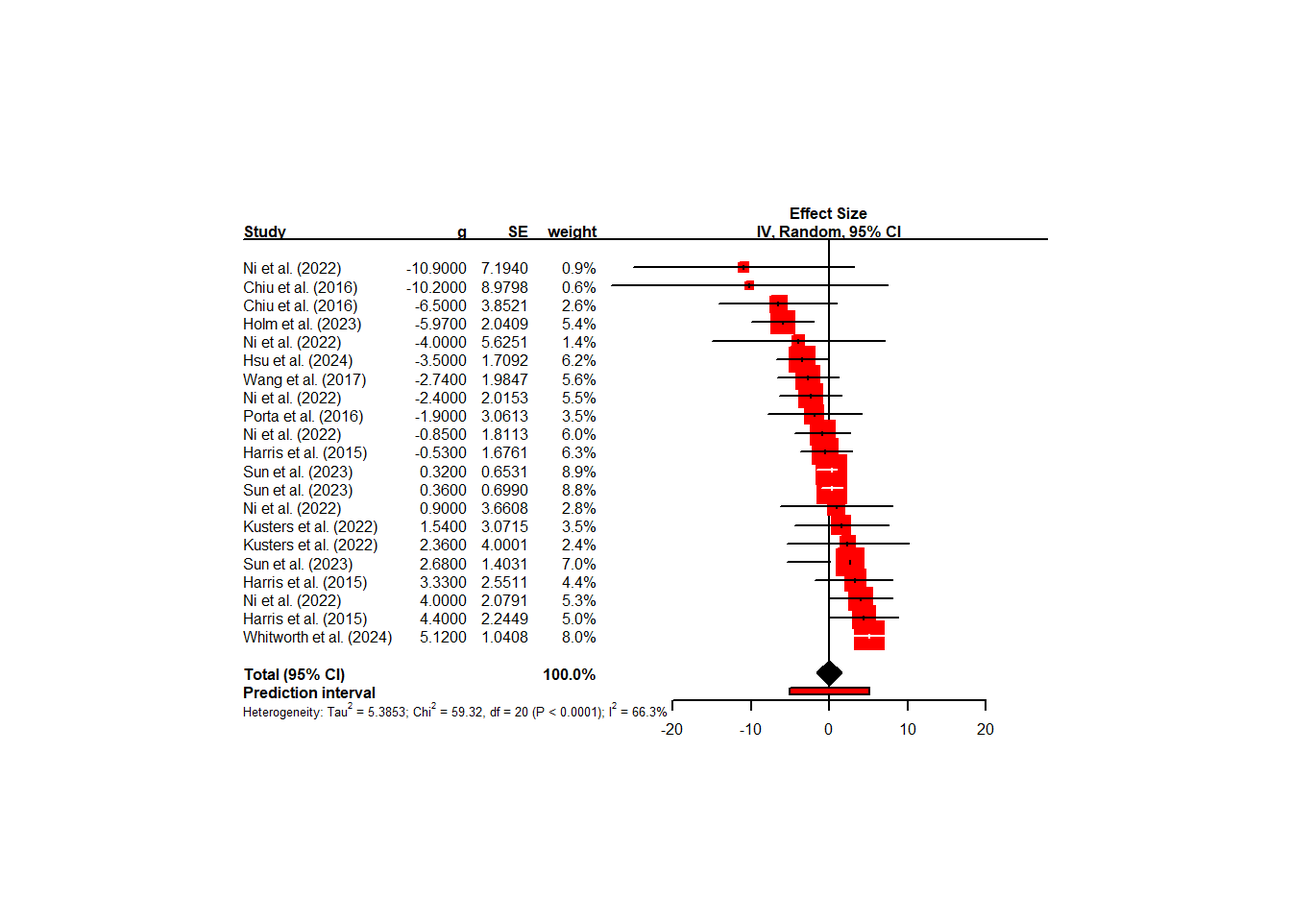
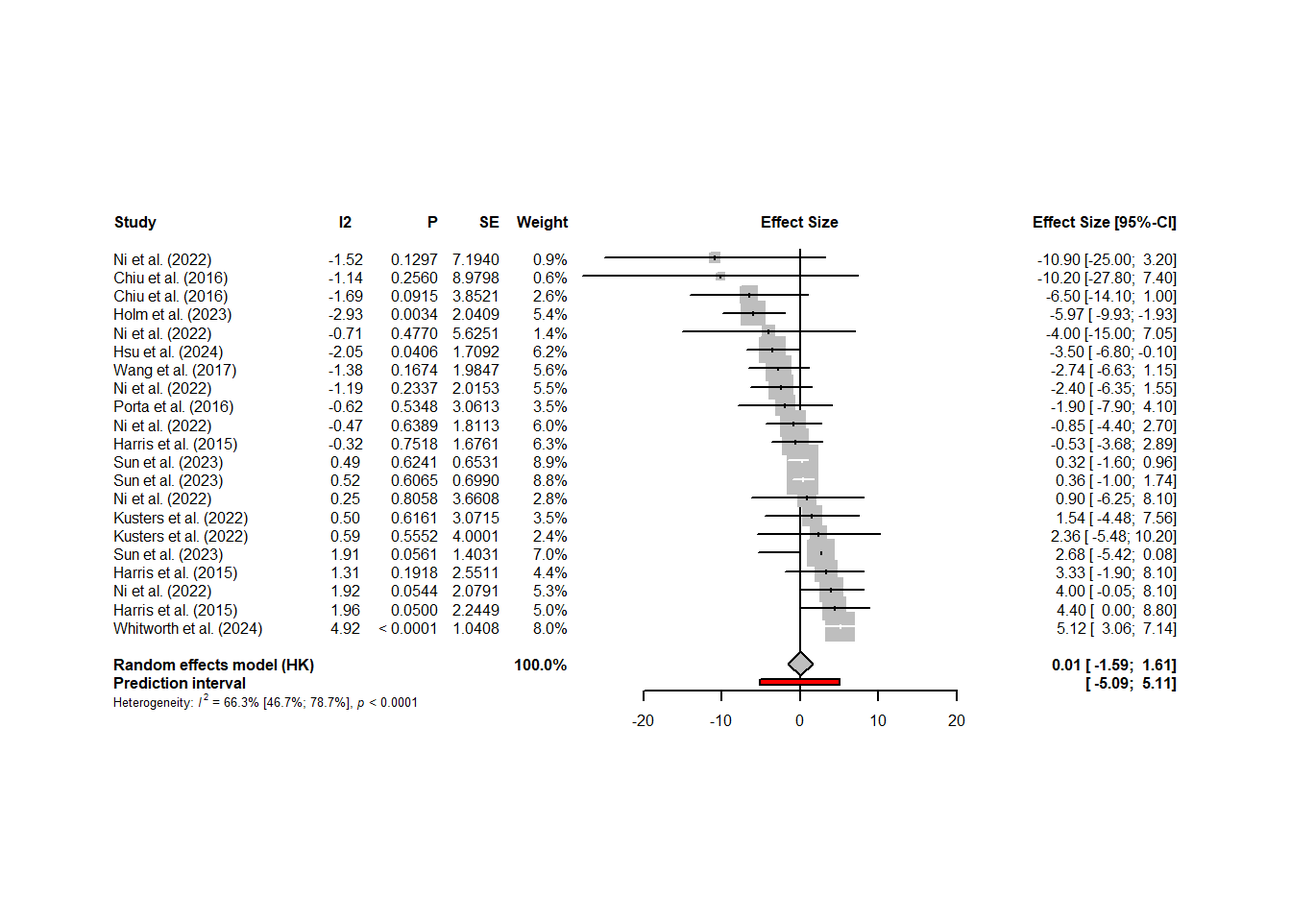
Refining of forest plots and addition of NO2

diff --git a/meta-analysis documentation.html b/meta-analysis documentation.html
@@ -266,7 +266,9 @@ pre > code.sourceCode > span > a:first-child::before { text-decoration: underlin
   </ul></li>
   <li><a href="#overall-meta-analysis" id="toc-overall-meta-analysis" class="nav-link" data-scroll-target="#overall-meta-analysis">Overall Meta-analysis</a>
   <ul class="collapse">
-  <li><a href="#forrest-plots---style-options" id="toc-forrest-plots---style-options" class="nav-link" data-scroll-target="#forrest-plots---style-options">Forrest Plots - Style options</a></li>
+  <li><a href="#summarise-meta-output-for-pm" id="toc-summarise-meta-output-for-pm" class="nav-link" data-scroll-target="#summarise-meta-output-for-pm">Summarise meta output for PM</a></li>
+  <li><a href="#summarise-meta-output-for-no2" id="toc-summarise-meta-output-for-no2" class="nav-link" data-scroll-target="#summarise-meta-output-for-no2">Summarise meta output for No2</a></li>
+  <li><a href="#forest-plots" id="toc-forest-plots" class="nav-link" data-scroll-target="#forest-plots">Forest Plots</a></li>
   </ul></li>
   <li><a href="#to-do" id="toc-to-do" class="nav-link" data-scroll-target="#to-do">To do</a></li>
   <li><a href="#useful-links" id="toc-useful-links" class="nav-link" data-scroll-target="#useful-links">Useful links</a></li>
@@ -326,7 +328,7 @@ pre > code.sourceCode > span > a:first-child::before { text-decoration: underlin
 <section id="fixed-effects-model" class="level2">
 <h2 class="anchored" data-anchor-id="fixed-effects-model">Fixed-effects model</h2>
 <p>Assumes that all effect sizes stem from a single, homogeneous population, i.e.&nbsp;all studies share the same true effect size. Thus any deviation from the overall effect size by any given study is because of sampling error. Hence why the effect is fixed. Can also be referred to as “equal effects” or “common effect”.</p>
-<p>Studeis with a small standard error, numerical representation of sampling error, should be better estimators of the true overall effect than studies with large standard errors. Pooled effects in mata-analyses give effect sizes with smaller standard errors (e.g.&nbsp;higer precision) a greater weight, inverse-variance weighting.</p>
+<p>Studies with a small standard error, numerical representation of sampling error, should be better estimators of the true overall effect than studies with large standard errors. Pooled effects in meta-analyses give effect sizes with smaller standard errors (e.g.&nbsp;higher precision) a greater weight, inverse-variance weighting.</p>
 </section>
 <section id="random-effects-model" class="level2">
 <h2 class="anchored" data-anchor-id="random-effects-model">Random-effects model</h2>
@@ -366,7 +368,7 @@ pre > code.sourceCode > span > a:first-child::before { text-decoration: underlin
 <ul>
 <li>“se”, use variance correction if HK standard error is smaller than standard error from classic random effects meta-analysis (Knapp and Hartung, 2003).</li>
 </ul></li>
-<li>method.tau.ci =
+<li>method.tau.ci = calculates a confidence interval for τ2 and τ
 <ul>
 <li>“J”, Jackson method recommended for DerSimonian-Laird estimator of τ2</li>
 </ul></li>
@@ -376,7 +378,6 @@ pre > code.sourceCode > span > a:first-child::before { text-decoration: underlin
 </ul></li>
 <li>data = data table to undertake analysis with</li>
 </ul>
-<p>method.tau = “DL”, method.random.ci = “HK”, method.predict = “HK”, method.tau.ci = “J”, #Jackson method recommended for DerSimonian-Laird #estimator of τ2 method.I2 = “Q”, method.bias = “Egger”,</p>
 </section>
 <section id="packages-and-libraries" class="level1 unlisted hidden">
 <h1 class="unlisted hidden">Packages and Libraries</h1>
@@ -1372,91 +1373,139 @@ Supply arguments directly to `.fns` through an anonymous function instead.
 <span id="cb6-14"><a href="#cb6-14" aria-hidden="true" tabindex="-1"></a>               <span class="at">method.tau.ci =</span> <span class="st">"J"</span>, <span class="co">#Jackson method recommended for DerSimonian-Laird </span></span>
 <span id="cb6-15"><a href="#cb6-15" aria-hidden="true" tabindex="-1"></a>                                    <span class="co">#estimator of τ2</span></span>
 <span id="cb6-16"><a href="#cb6-16" aria-hidden="true" tabindex="-1"></a>               <span class="at">method.I2 =</span> <span class="st">"Q"</span>,</span>
-<span id="cb6-17"><a href="#cb6-17" aria-hidden="true" tabindex="-1"></a>               <span class="at">method.bias =</span> <span class="st">"Egger"</span>,</span>
-<span id="cb6-18"><a href="#cb6-18" aria-hidden="true" tabindex="-1"></a>               <span class="at">data =</span> standardised_ppm_data))</span></code><button title="Copy to Clipboard" class="code-copy-button"><i class="bi"></i></button></pre></div>
+<span id="cb6-17"><a href="#cb6-17" aria-hidden="true" tabindex="-1"></a>               <span class="at">data =</span> standardised_ppm_data))</span></code><button title="Copy to Clipboard" class="code-copy-button"><i class="bi"></i></button></pre></div>
 </div>
 </section>
-<section id="forrest-plots---style-options" class="level2 tabset">
-<h2 class="tabset anchored" data-anchor-id="forrest-plots---style-options">Forrest Plots - Style options</h2>
+<section id="summarise-meta-output-for-pm" class="level2">
+<h2 class="anchored" data-anchor-id="summarise-meta-output-for-pm">Summarise meta output for PM</h2>
+<div class="cell">
+<div class="sourceCode cell-code" id="cb7"><pre class="sourceCode r code-with-copy"><code class="sourceCode r"><span id="cb7-1"><a href="#cb7-1" aria-hidden="true" tabindex="-1"></a><span class="fu">summary</span>(m.pm_overall)</span></code><button title="Copy to Clipboard" class="code-copy-button"><i class="bi"></i></button></pre></div>
+<div class="cell-output cell-output-stdout">
+<pre><code>                        Effect Size              95%-CI %W(random)
+Chiu et al. (2016)          -6.5000 [-14.1000;  1.0000]        2.6
+Chiu et al. (2016)         -10.2000 [-27.8000;  7.4000]        0.6
+Harris et al. (2015)        -0.5300 [ -3.6800;  2.8900]        6.3
+Harris et al. (2015)         3.3300 [ -1.9000;  8.1000]        4.4
+Harris et al. (2015)         4.4000 [  0.0000;  8.8000]        5.0
+Holm et al. (2023)          -5.9700 [ -9.9300; -1.9300]        5.4
+Hsu et al. (2024)           -3.5000 [ -6.8000; -0.1000]        6.2
+Kusters et al. (2022)        1.5400 [ -4.4800;  7.5600]        3.5
+Kusters et al. (2022)        2.3600 [ -5.4800; 10.2000]        2.4
+Ni et al. (2022)             4.0000 [ -0.0500;  8.1000]        5.3
+Ni et al. (2022)            -2.4000 [ -6.3500;  1.5500]        5.5
+Ni et al. (2022)            -0.8500 [ -4.4000;  2.7000]        6.0
+Ni et al. (2022)             0.9000 [ -6.2500;  8.1000]        2.8
+Ni et al. (2022)            -4.0000 [-15.0000;  7.0500]        1.4
+Ni et al. (2022)           -10.9000 [-25.0000;  3.2000]        0.9
+Porta et al. (2016)         -1.9000 [ -7.9000;  4.1000]        3.5
+Sun et al. (2023)            2.6800 [ -5.4200;  0.0800]        7.0
+Sun et al. (2023)            0.3600 [ -1.0000;  1.7400]        8.8
+Sun et al. (2023)            0.3200 [ -1.6000;  0.9600]        8.9
+Wang et al. (2017)          -2.7400 [ -6.6300;  1.1500]        5.6
+Whitworth et al. (2024)      5.1200 [  3.0600;  7.1400]        8.0
+
+Number of studies: k = 21
+
+                          Effect Size            95%-CI    t p-value
+Random effects model (HK)      0.0124 [-1.5886; 1.6133] 0.02  0.9873
+Prediction interval                   [-5.0862; 5.1110]             
+
+Quantifying heterogeneity (with 95%-CIs):
+ tau^2 = 5.3853 [1.0515; 21.4916]; tau = 2.3206 [1.0254; 4.6359]
+ I^2 = 66.3% [46.7%; 78.7%]; H = 1.72 [1.37; 2.17]
+
+Test of heterogeneity:
+     Q d.f.  p-value
+ 59.32   20 &lt; 0.0001
+
+Details of meta-analysis methods:
+- Inverse variance method
+- DerSimonian-Laird estimator for tau^2
+- Jackson method for confidence interval of tau^2 and tau
+- Calculation of I^2 based on Q
+- Hartung-Knapp adjustment for random effects model (df = 20)
+- Hartung-Knapp prediction interval (df = 20)</code></pre>
+</div>
+</div>
+</section>
+<section id="run-meta-analysis-for-no2" class="level2 unlisted hidden">
+<h2 class="unlisted hidden anchored" data-anchor-id="run-meta-analysis-for-no2">Run meta-analysis for NO2</h2>
+<div class="cell">
+<div class="sourceCode cell-code" id="cb9"><pre class="sourceCode r code-with-copy"><code class="sourceCode r"><span id="cb9-1"><a href="#cb9-1" aria-hidden="true" tabindex="-1"></a>standardised_no2_data <span class="ot">&lt;-</span> standardised_review_data <span class="sc">|&gt;</span></span>
+<span id="cb9-2"><a href="#cb9-2" aria-hidden="true" tabindex="-1"></a>  <span class="fu">filter</span>(exposure <span class="sc">==</span> <span class="st">"NO2"</span> <span class="sc">&amp;</span> exposure_level <span class="sc">!=</span> <span class="st">"NA"</span> <span class="sc">&amp;</span> standardisation_factor <span class="sc">!=</span> <span class="st">"NA"</span>)</span>
+<span id="cb9-3"><a href="#cb9-3" aria-hidden="true" tabindex="-1"></a></span>
+<span id="cb9-4"><a href="#cb9-4" aria-hidden="true" tabindex="-1"></a>m.no2_overall<span class="ot">=</span>(<span class="fu">metagen</span>(<span class="at">TE =</span> standardised_effect_size, <span class="at">lower=</span>standardised_ci_lower,</span>
+<span id="cb9-5"><a href="#cb9-5" aria-hidden="true" tabindex="-1"></a>               <span class="at">upper=</span>standardised_ci_upper,</span>
+<span id="cb9-6"><a href="#cb9-6" aria-hidden="true" tabindex="-1"></a>               <span class="at">studlab =</span> study,</span>
+<span id="cb9-7"><a href="#cb9-7" aria-hidden="true" tabindex="-1"></a>               <span class="co">#prediction = exposure_level,</span></span>
+<span id="cb9-8"><a href="#cb9-8" aria-hidden="true" tabindex="-1"></a>               <span class="at">sm =</span> <span class="st">"Effect Size"</span>,</span>
+<span id="cb9-9"><a href="#cb9-9" aria-hidden="true" tabindex="-1"></a>               <span class="at">common =</span> <span class="cn">FALSE</span>,</span>
+<span id="cb9-10"><a href="#cb9-10" aria-hidden="true" tabindex="-1"></a>               <span class="at">random =</span> <span class="cn">TRUE</span>,</span>
+<span id="cb9-11"><a href="#cb9-11" aria-hidden="true" tabindex="-1"></a>               <span class="at">method.tau =</span> <span class="st">"DL"</span>,</span>
+<span id="cb9-12"><a href="#cb9-12" aria-hidden="true" tabindex="-1"></a>               <span class="at">method.random.ci =</span> <span class="st">"HK"</span>,</span>
+<span id="cb9-13"><a href="#cb9-13" aria-hidden="true" tabindex="-1"></a>               <span class="at">method.predict =</span> <span class="st">"HK"</span>,</span>
+<span id="cb9-14"><a href="#cb9-14" aria-hidden="true" tabindex="-1"></a>               <span class="at">method.tau.ci =</span> <span class="st">"J"</span>, <span class="co">#Jackson method recommended for DerSimonian-Laird </span></span>
+<span id="cb9-15"><a href="#cb9-15" aria-hidden="true" tabindex="-1"></a>                                    <span class="co">#estimator of τ2</span></span>
+<span id="cb9-16"><a href="#cb9-16" aria-hidden="true" tabindex="-1"></a>               <span class="at">method.I2 =</span> <span class="st">"Q"</span>,</span>
+<span id="cb9-17"><a href="#cb9-17" aria-hidden="true" tabindex="-1"></a>               <span class="at">data =</span> standardised_no2_data))</span></code><button title="Copy to Clipboard" class="code-copy-button"><i class="bi"></i></button></pre></div>
+</div>
+</section>
+<section id="summarise-meta-output-for-no2" class="level2">
+<h2 class="anchored" data-anchor-id="summarise-meta-output-for-no2">Summarise meta output for No2</h2>
+<div class="cell">
+<div class="sourceCode cell-code" id="cb10"><pre class="sourceCode r code-with-copy"><code class="sourceCode r"><span id="cb10-1"><a href="#cb10-1" aria-hidden="true" tabindex="-1"></a><span class="fu">summary</span>(m.no2_overall)</span></code><button title="Copy to Clipboard" class="code-copy-button"><i class="bi"></i></button></pre></div>
+<div class="cell-output cell-output-stdout">
+<pre><code>                      Effect Size            95%-CI %W(random)
+Kusters et al. (2022)      0.5300 [-0.2800; 1.3400]       25.2
+Kusters et al. (2022)      0.1300 [-0.5900; 0.8500]       26.9
+Ni et al. (2022)           1.8500 [-0.1500; 3.8500]        9.9
+Ni et al. (2022)           0.8000 [-1.2500; 2.8500]        9.6
+Ni et al. (2022)          -1.3500 [-3.3500; 0.6500]        9.9
+Porta et al. (2016)       -1.1000 [-2.3000; 0.1000]       18.5
+
+Number of studies: k = 6
+
+                          Effect Size            95%-CI    t p-value
+Random effects model (HK)      0.0910 [-0.9828; 1.1648] 0.22  0.8362
+Prediction interval                   [-1.8486; 2.0306]             
+
+Quantifying heterogeneity (with 95%-CIs):
+ tau^2 = 0.3948 [0.0000; 6.2997]; tau = 0.6283 [0.0000; 2.5099]
+ I^2 = 51.6% [0.0%; 80.7%]; H = 1.44 [1.00; 2.28]
+
+Test of heterogeneity:
+     Q d.f. p-value
+ 10.33    5  0.0665
+
+Details of meta-analysis methods:
+- Inverse variance method
+- DerSimonian-Laird estimator for tau^2
+- Jackson method for confidence interval of tau^2 and tau
+- Calculation of I^2 based on Q
+- Hartung-Knapp adjustment for random effects model (df = 5)
+- Hartung-Knapp prediction interval (df = 5)</code></pre>
+</div>
+</div>
+</section>
+<section id="forest-plots" class="level2 tabset">
+<h2 class="tabset anchored" data-anchor-id="forest-plots">Forest Plots</h2>
 <div class="tabset-margin-container"></div><div class="panel-tabset">
-<ul class="nav nav-tabs" role="tablist"><li class="nav-item" role="presentation"><a class="nav-link active" id="tabset-1-1-tab" data-bs-toggle="tab" data-bs-target="#tabset-1-1" role="tab" aria-controls="tabset-1-1" aria-selected="true" href="">Standard (PM - Overall, random &amp; mixed)</a></li><li class="nav-item" role="presentation"><a class="nav-link" id="tabset-1-2-tab" data-bs-toggle="tab" data-bs-target="#tabset-1-2" role="tab" aria-controls="tabset-1-2" aria-selected="false" href="">JAMA (PM - Overall, random &amp; mixed)</a></li><li class="nav-item" role="presentation"><a class="nav-link" id="tabset-1-3-tab" data-bs-toggle="tab" data-bs-target="#tabset-1-3" role="tab" aria-controls="tabset-1-3" aria-selected="false" href="">BMJ (PM - Overall, random &amp; mixed)</a></li><li class="nav-item" role="presentation"><a class="nav-link" id="tabset-1-4-tab" data-bs-toggle="tab" data-bs-target="#tabset-1-4" role="tab" aria-controls="tabset-1-4" aria-selected="false" href="">Cochrane’s Review Manager 5 (PM - Overall, random &amp; mixed)</a></li><li class="nav-item" role="presentation"><a class="nav-link" id="tabset-1-5-tab" data-bs-toggle="tab" data-bs-target="#tabset-1-5" role="tab" aria-controls="tabset-1-5" aria-selected="false" href="">NO2 - Overall</a></li></ul>
+<ul class="nav nav-tabs" role="tablist"><li class="nav-item" role="presentation"><a class="nav-link active" id="tabset-1-1-tab" data-bs-toggle="tab" data-bs-target="#tabset-1-1" role="tab" aria-controls="tabset-1-1" aria-selected="true" href="">PM - Overall, random-effects</a></li><li class="nav-item" role="presentation"><a class="nav-link" id="tabset-1-2-tab" data-bs-toggle="tab" data-bs-target="#tabset-1-2" role="tab" aria-controls="tabset-1-2" aria-selected="false" href="">NO2 - Overall, random-effects</a></li></ul>
 <div class="tab-content">
 <div id="tabset-1-1" class="tab-pane active" role="tabpanel" aria-labelledby="tabset-1-1-tab">
 <div class="cell">
-<div class="sourceCode cell-code" id="cb7"><pre class="sourceCode r code-with-copy"><code class="sourceCode r"><span id="cb7-1"><a href="#cb7-1" aria-hidden="true" tabindex="-1"></a>    <span class="fu">forest</span>(m.pm_overall,</span>
-<span id="cb7-2"><a href="#cb7-2" aria-hidden="true" tabindex="-1"></a>       <span class="at">sortvar =</span> TE,</span>
-<span id="cb7-3"><a href="#cb7-3" aria-hidden="true" tabindex="-1"></a>       <span class="at">prediction =</span> <span class="cn">TRUE</span>,</span>
-<span id="cb7-4"><a href="#cb7-4" aria-hidden="true" tabindex="-1"></a>       <span class="at">print.tau2 =</span> <span class="cn">FALSE</span>,</span>
-<span id="cb7-5"><a href="#cb7-5" aria-hidden="true" tabindex="-1"></a>       <span class="at">leftcols =</span> <span class="fu">c</span>(<span class="st">"studlab"</span>, <span class="st">"statistic"</span>, <span class="st">"pval"</span>, <span class="st">"seTE"</span>, <span class="st">"w.random"</span>),</span>
-<span id="cb7-6"><a href="#cb7-6" aria-hidden="true" tabindex="-1"></a>       <span class="at">fontsize =</span> <span class="dv">6</span>,</span>
-<span id="cb7-7"><a href="#cb7-7" aria-hidden="true" tabindex="-1"></a>       <span class="at">spacing =</span> <span class="fl">0.5</span>)</span></code><button title="Copy to Clipboard" class="code-copy-button"><i class="bi"></i></button></pre></div>
-<div class="cell-output-display">
-<div>
-<figure class="figure">
-<p><img src="meta-analysis-documentation_files/figure-html/unnamed-chunk-7-1.png" class="img-fluid figure-img" width="672"></p>
-</figure>
-</div>
-</div>
-<div class="sourceCode cell-code" id="cb8"><pre class="sourceCode r code-with-copy"><code class="sourceCode r"><span id="cb8-1"><a href="#cb8-1" aria-hidden="true" tabindex="-1"></a>leftcols <span class="ot">=</span><span class="fu">c</span>(<span class="st">"studlab"</span>, <span class="st">"Exposure Period"</span>, <span class="st">"Sample Size"</span>, <span class="st">"I2"</span>, <span class="st">"Q"</span>, <span class="st">"pval.Q"</span>, <span class="st">"tau2"</span> )</span>
-<span id="cb8-2"><a href="#cb8-2" aria-hidden="true" tabindex="-1"></a>leftlabs <span class="ot">=</span><span class="fu">c</span>(<span class="st">"Study"</span>, <span class="st">"Exposure Period"</span>, <span class="st">"Sample Size"</span>, <span class="st">"I2"</span>, <span class="st">"Q"</span>, <span class="st">"P"</span>, <span class="st">"Tau2"</span> )</span></code><button title="Copy to Clipboard" class="code-copy-button"><i class="bi"></i></button></pre></div>
-</div>
-</div>
-<div id="tabset-1-2" class="tab-pane" role="tabpanel" aria-labelledby="tabset-1-2-tab">
-<div class="cell">
-<div class="sourceCode cell-code" id="cb9"><pre class="sourceCode r code-with-copy"><code class="sourceCode r"><span id="cb9-1"><a href="#cb9-1" aria-hidden="true" tabindex="-1"></a>    <span class="fu">forest</span>(m.pm_overall,</span>
-<span id="cb9-2"><a href="#cb9-2" aria-hidden="true" tabindex="-1"></a>       <span class="at">layout =</span> <span class="st">"JAMA"</span>,</span>
-<span id="cb9-3"><a href="#cb9-3" aria-hidden="true" tabindex="-1"></a>       <span class="at">sortvar =</span> TE,</span>
-<span id="cb9-4"><a href="#cb9-4" aria-hidden="true" tabindex="-1"></a>       <span class="at">prediction =</span> <span class="cn">TRUE</span>,</span>
-<span id="cb9-5"><a href="#cb9-5" aria-hidden="true" tabindex="-1"></a>       <span class="at">print.tau2 =</span> <span class="cn">FALSE</span>,</span>
-<span id="cb9-6"><a href="#cb9-6" aria-hidden="true" tabindex="-1"></a>       <span class="at">leftcols =</span> <span class="fu">c</span>(<span class="st">"studlab"</span>, <span class="st">"TE"</span>, <span class="st">"seTE"</span>, <span class="st">"w.random"</span>),</span>
-<span id="cb9-7"><a href="#cb9-7" aria-hidden="true" tabindex="-1"></a>       <span class="at">leftlabs =</span> <span class="fu">c</span>(<span class="st">"Study"</span>, <span class="st">"g"</span>, <span class="st">"SE"</span>, <span class="st">"weight"</span>),</span>
-<span id="cb9-8"><a href="#cb9-8" aria-hidden="true" tabindex="-1"></a>       <span class="at">fontsize =</span> <span class="dv">6</span>,</span>
-<span id="cb9-9"><a href="#cb9-9" aria-hidden="true" tabindex="-1"></a>       <span class="at">spacing =</span> <span class="fl">0.5</span>)</span></code><button title="Copy to Clipboard" class="code-copy-button"><i class="bi"></i></button></pre></div>
-<div class="cell-output-display">
-<div>
-<figure class="figure">
-<p><img src="meta-analysis-documentation_files/figure-html/unnamed-chunk-8-1.png" class="img-fluid figure-img" width="672"></p>
-</figure>
-</div>
-</div>
-</div>
-</div>
-<div id="tabset-1-3" class="tab-pane" role="tabpanel" aria-labelledby="tabset-1-3-tab">
-<div class="cell">
-<div class="sourceCode cell-code" id="cb10"><pre class="sourceCode r code-with-copy"><code class="sourceCode r"><span id="cb10-1"><a href="#cb10-1" aria-hidden="true" tabindex="-1"></a>    <span class="fu">forest</span>(m.pm_overall,</span>
-<span id="cb10-2"><a href="#cb10-2" aria-hidden="true" tabindex="-1"></a>       <span class="at">layout =</span> <span class="st">"BMJ"</span>,</span>
-<span id="cb10-3"><a href="#cb10-3" aria-hidden="true" tabindex="-1"></a>       <span class="at">sortvar =</span> TE,</span>
-<span id="cb10-4"><a href="#cb10-4" aria-hidden="true" tabindex="-1"></a>       <span class="at">prediction =</span> <span class="cn">TRUE</span>,</span>
-<span id="cb10-5"><a href="#cb10-5" aria-hidden="true" tabindex="-1"></a>       <span class="at">print.tau2 =</span> <span class="cn">FALSE</span>,</span>
-<span id="cb10-6"><a href="#cb10-6" aria-hidden="true" tabindex="-1"></a>       <span class="at">leftcols =</span> <span class="fu">c</span>(<span class="st">"studlab"</span>, <span class="st">"TE"</span>, <span class="st">"seTE"</span>, <span class="st">"w.random"</span>),</span>
-<span id="cb10-7"><a href="#cb10-7" aria-hidden="true" tabindex="-1"></a>       <span class="at">leftlabs =</span> <span class="fu">c</span>(<span class="st">"Study"</span>, <span class="st">"g"</span>, <span class="st">"SE"</span>, <span class="st">"weight"</span>),</span>
-<span id="cb10-8"><a href="#cb10-8" aria-hidden="true" tabindex="-1"></a>       <span class="at">fontsize =</span> <span class="dv">6</span>,</span>
-<span id="cb10-9"><a href="#cb10-9" aria-hidden="true" tabindex="-1"></a>       <span class="at">spacing =</span> <span class="fl">0.5</span>)</span></code><button title="Copy to Clipboard" class="code-copy-button"><i class="bi"></i></button></pre></div>
-<div class="cell-output-display">
-<div>
-<figure class="figure">
-<p><img src="meta-analysis-documentation_files/figure-html/unnamed-chunk-9-1.png" class="img-fluid figure-img" width="672"></p>
-</figure>
-</div>
-</div>
-</div>
-</div>
-<div id="tabset-1-4" class="tab-pane" role="tabpanel" aria-labelledby="tabset-1-4-tab">
-<div class="cell">
-<div class="sourceCode cell-code" id="cb11"><pre class="sourceCode r code-with-copy"><code class="sourceCode r"><span id="cb11-1"><a href="#cb11-1" aria-hidden="true" tabindex="-1"></a>    <span class="fu">forest</span>(m.pm_overall,</span>
-<span id="cb11-2"><a href="#cb11-2" aria-hidden="true" tabindex="-1"></a>       <span class="at">layout =</span> <span class="st">"RevMan5"</span>,</span>
-<span id="cb11-3"><a href="#cb11-3" aria-hidden="true" tabindex="-1"></a>       <span class="at">sortvar =</span> TE,</span>
-<span id="cb11-4"><a href="#cb11-4" aria-hidden="true" tabindex="-1"></a>       <span class="at">prediction =</span> <span class="cn">TRUE</span>,</span>
-<span id="cb11-5"><a href="#cb11-5" aria-hidden="true" tabindex="-1"></a>       <span class="at">print.tau2 =</span> <span class="cn">FALSE</span>,</span>
-<span id="cb11-6"><a href="#cb11-6" aria-hidden="true" tabindex="-1"></a>       <span class="at">leftcols =</span> <span class="fu">c</span>(<span class="st">"studlab"</span>, <span class="st">"TE"</span>, <span class="st">"seTE"</span>, <span class="st">"w.random"</span>),</span>
-<span id="cb11-7"><a href="#cb11-7" aria-hidden="true" tabindex="-1"></a>       <span class="at">leftlabs =</span> <span class="fu">c</span>(<span class="st">"Study"</span>, <span class="st">"g"</span>, <span class="st">"SE"</span>, <span class="st">"weight"</span>),</span>
-<span id="cb11-8"><a href="#cb11-8" aria-hidden="true" tabindex="-1"></a>       <span class="at">fontsize =</span> <span class="dv">6</span>,</span>
-<span id="cb11-9"><a href="#cb11-9" aria-hidden="true" tabindex="-1"></a>       <span class="at">spacing =</span> <span class="fl">0.5</span>)</span></code><button title="Copy to Clipboard" class="code-copy-button"><i class="bi"></i></button></pre></div>
-<div class="cell-output cell-output-stderr">
-<pre><code>Warning in forest.meta(m.pm_overall, layout = "RevMan5", sortvar = TE,
-prediction = TRUE, : Information on between-study variance printed for RevMan5
-layout</code></pre>
-</div>
+<div class="sourceCode cell-code" id="cb12"><pre class="sourceCode r code-with-copy"><code class="sourceCode r"><span id="cb12-1"><a href="#cb12-1" aria-hidden="true" tabindex="-1"></a>    <span class="fu">forest</span>(m.pm_overall,</span>
+<span id="cb12-2"><a href="#cb12-2" aria-hidden="true" tabindex="-1"></a>       <span class="at">sortvar =</span> TE,</span>
+<span id="cb12-3"><a href="#cb12-3" aria-hidden="true" tabindex="-1"></a>       <span class="at">prediction =</span> <span class="cn">TRUE</span>,</span>
+<span id="cb12-4"><a href="#cb12-4" aria-hidden="true" tabindex="-1"></a>       <span class="at">print.tau2 =</span> <span class="cn">FALSE</span>,</span>
+<span id="cb12-5"><a href="#cb12-5" aria-hidden="true" tabindex="-1"></a>       <span class="at">print.I2 =</span> <span class="cn">TRUE</span>,</span>
+<span id="cb12-6"><a href="#cb12-6" aria-hidden="true" tabindex="-1"></a>       <span class="at">print.I2.ci =</span> <span class="cn">TRUE</span>,</span>
+<span id="cb12-7"><a href="#cb12-7" aria-hidden="true" tabindex="-1"></a>       <span class="at">leftcols =</span> <span class="fu">c</span>(<span class="st">"studlab"</span>, <span class="st">"statistic"</span>, <span class="st">"pval"</span>, <span class="st">"seTE"</span>, <span class="st">"w.random"</span>),</span>
+<span id="cb12-8"><a href="#cb12-8" aria-hidden="true" tabindex="-1"></a>       <span class="at">leftlabs =</span> <span class="fu">c</span>(<span class="st">"Study"</span>, <span class="st">"I2"</span>, <span class="st">"P"</span>, <span class="st">"SE"</span>, <span class="st">"Weight"</span>),</span>
+<span id="cb12-9"><a href="#cb12-9" aria-hidden="true" tabindex="-1"></a>       <span class="at">rightcols =</span> <span class="fu">c</span>(<span class="st">"effect.ci"</span>),</span>
+<span id="cb12-10"><a href="#cb12-10" aria-hidden="true" tabindex="-1"></a>       <span class="at">fontsize =</span> <span class="dv">6</span>,</span>
+<span id="cb12-11"><a href="#cb12-11" aria-hidden="true" tabindex="-1"></a>       <span class="at">spacing =</span> <span class="fl">0.5</span>,</span>
+<span id="cb12-12"><a href="#cb12-12" aria-hidden="true" tabindex="-1"></a>       <span class="at">title =</span> <span class="st">"Forest Plot for PM2.5"</span>)</span></code><button title="Copy to Clipboard" class="code-copy-button"><i class="bi"></i></button></pre></div>
 <div class="cell-output-display">
 <div>
 <figure class="figure">
@@ -1466,8 +1515,28 @@ layout</code></pre>
 </div>
 </div>
 </div>
-<div id="tabset-1-5" class="tab-pane" role="tabpanel" aria-labelledby="tabset-1-5-tab">
-
+<div id="tabset-1-2" class="tab-pane" role="tabpanel" aria-labelledby="tabset-1-2-tab">
+<div class="cell">
+<div class="sourceCode cell-code" id="cb13"><pre class="sourceCode r code-with-copy"><code class="sourceCode r"><span id="cb13-1"><a href="#cb13-1" aria-hidden="true" tabindex="-1"></a>    <span class="fu">forest</span>(m.no2_overall,</span>
+<span id="cb13-2"><a href="#cb13-2" aria-hidden="true" tabindex="-1"></a>       <span class="at">sortvar =</span> TE,</span>
+<span id="cb13-3"><a href="#cb13-3" aria-hidden="true" tabindex="-1"></a>       <span class="at">prediction =</span> <span class="cn">TRUE</span>,</span>
+<span id="cb13-4"><a href="#cb13-4" aria-hidden="true" tabindex="-1"></a>       <span class="at">print.tau2 =</span> <span class="cn">FALSE</span>,</span>
+<span id="cb13-5"><a href="#cb13-5" aria-hidden="true" tabindex="-1"></a>       <span class="at">print.I2 =</span> <span class="cn">TRUE</span>,</span>
+<span id="cb13-6"><a href="#cb13-6" aria-hidden="true" tabindex="-1"></a>       <span class="at">print.I2.ci =</span> <span class="cn">TRUE</span>,</span>
+<span id="cb13-7"><a href="#cb13-7" aria-hidden="true" tabindex="-1"></a>       <span class="at">leftcols =</span> <span class="fu">c</span>(<span class="st">"studlab"</span>, <span class="st">"statistic"</span>, <span class="st">"pval"</span>, <span class="st">"seTE"</span>, <span class="st">"w.random"</span>),</span>
+<span id="cb13-8"><a href="#cb13-8" aria-hidden="true" tabindex="-1"></a>       <span class="at">leftlabs =</span> <span class="fu">c</span>(<span class="st">"Study"</span>, <span class="st">"I2"</span>, <span class="st">"P"</span>, <span class="st">"SE"</span>, <span class="st">"Weight"</span>),</span>
+<span id="cb13-9"><a href="#cb13-9" aria-hidden="true" tabindex="-1"></a>       <span class="at">rightcols =</span> <span class="fu">c</span>(<span class="st">"effect.ci"</span>),</span>
+<span id="cb13-10"><a href="#cb13-10" aria-hidden="true" tabindex="-1"></a>       <span class="at">fontsize =</span> <span class="dv">6</span>,</span>
+<span id="cb13-11"><a href="#cb13-11" aria-hidden="true" tabindex="-1"></a>       <span class="at">spacing =</span> <span class="fl">0.5</span>,</span>
+<span id="cb13-12"><a href="#cb13-12" aria-hidden="true" tabindex="-1"></a>       <span class="at">title =</span> <span class="st">"Forest Plot for NO2"</span>)</span></code><button title="Copy to Clipboard" class="code-copy-button"><i class="bi"></i></button></pre></div>
+<div class="cell-output-display">
+<div>
+<figure class="figure">
+<p><img src="meta-analysis-documentation_files/figure-html/unnamed-chunk-11-1.png" class="img-fluid figure-img" width="672"></p>
+</figure>
+</div>
+</div>
+</div>
 </div>
 </div>
 </div>
@@ -1479,7 +1548,9 @@ layout</code></pre>
 <li><p><label><input type="checkbox" checked="">Get data from MH</label></p></li>
 <li><p><label><input type="checkbox" checked="">Import data into R</label></p></li>
 <li><p><label><input type="checkbox" checked="">Standardised effect sizes &amp; associated CIs</label></p></li>
-<li><p>[]</p></li>
+<li><p><label><input type="checkbox" checked="">Run overall meta-analysis models</label></p></li>
+<li><p>[] Run meta-analysis models by exposure time</p></li>
+<li><p>[] Include risk of bias and sample size for each study?</p></li>
 </ul>
 </section>
 <section id="useful-links" class="level1">
